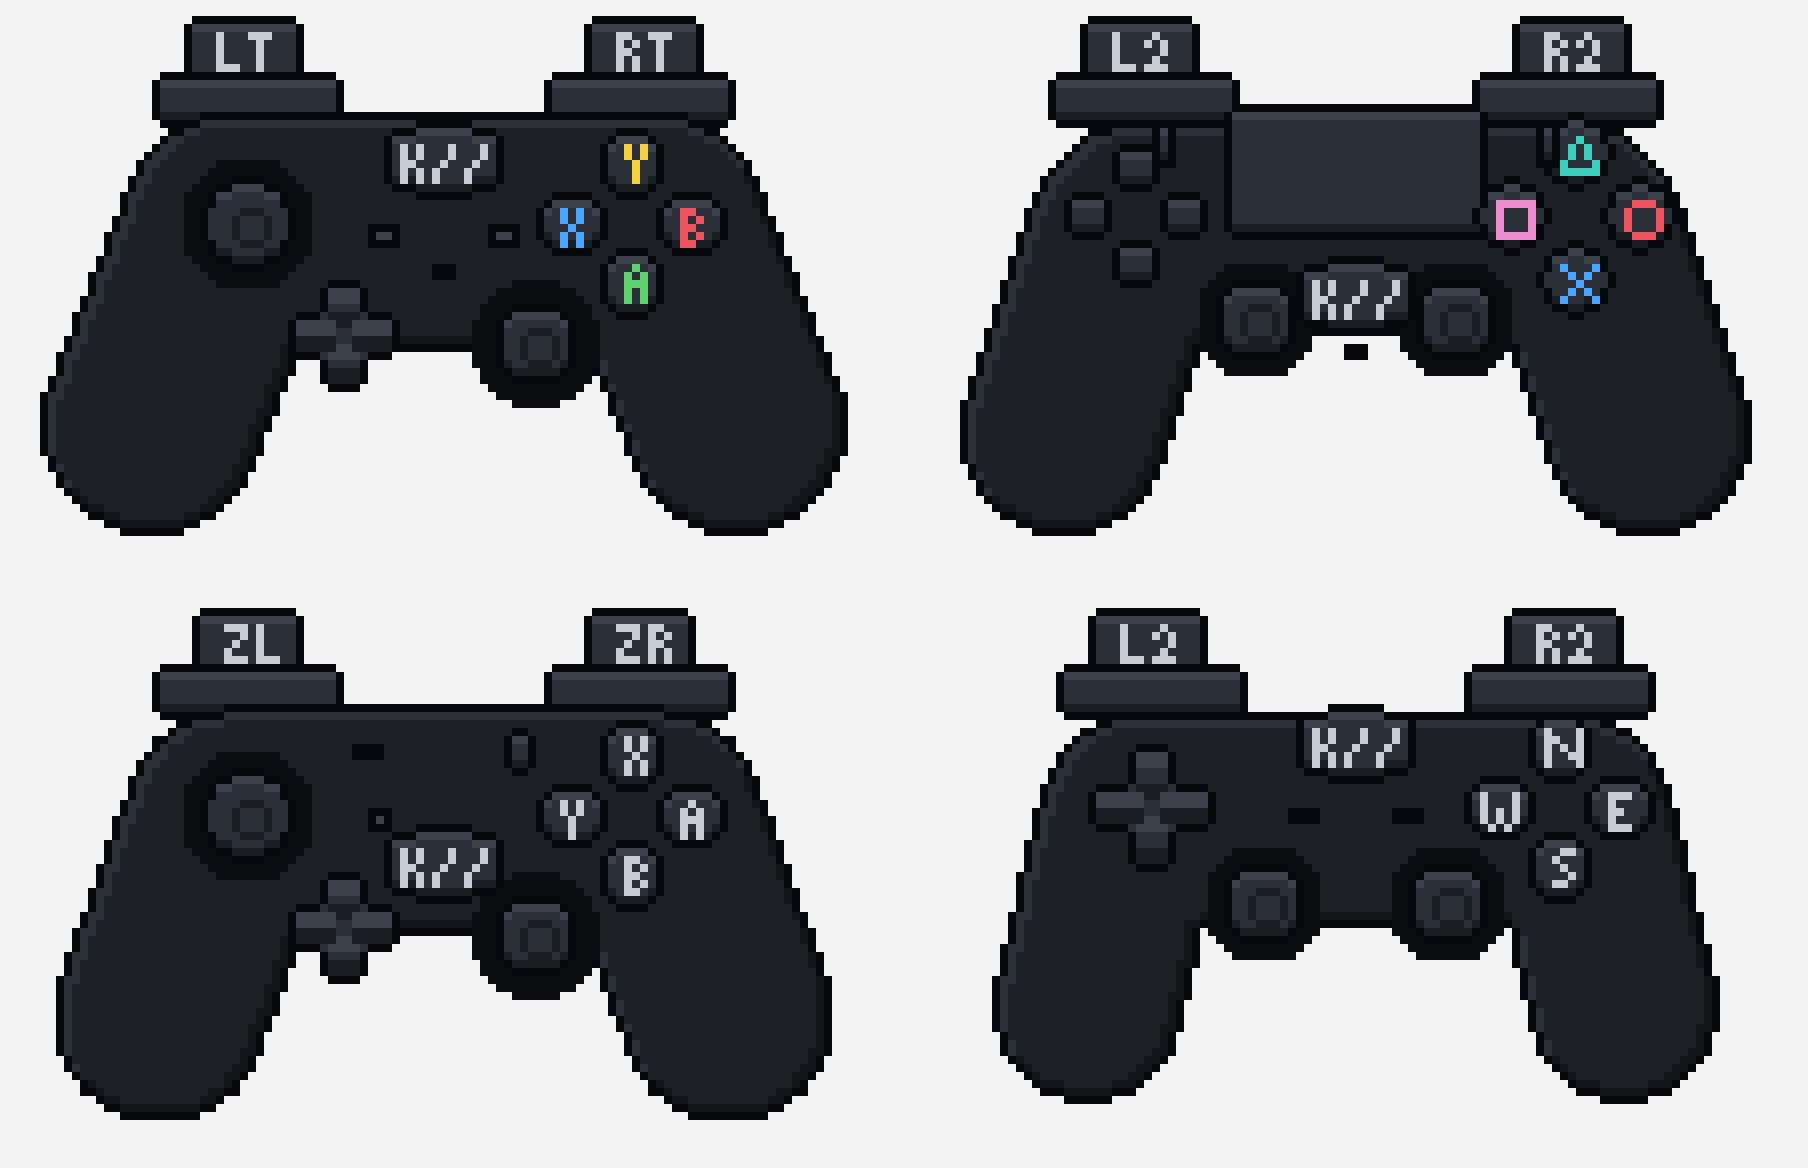
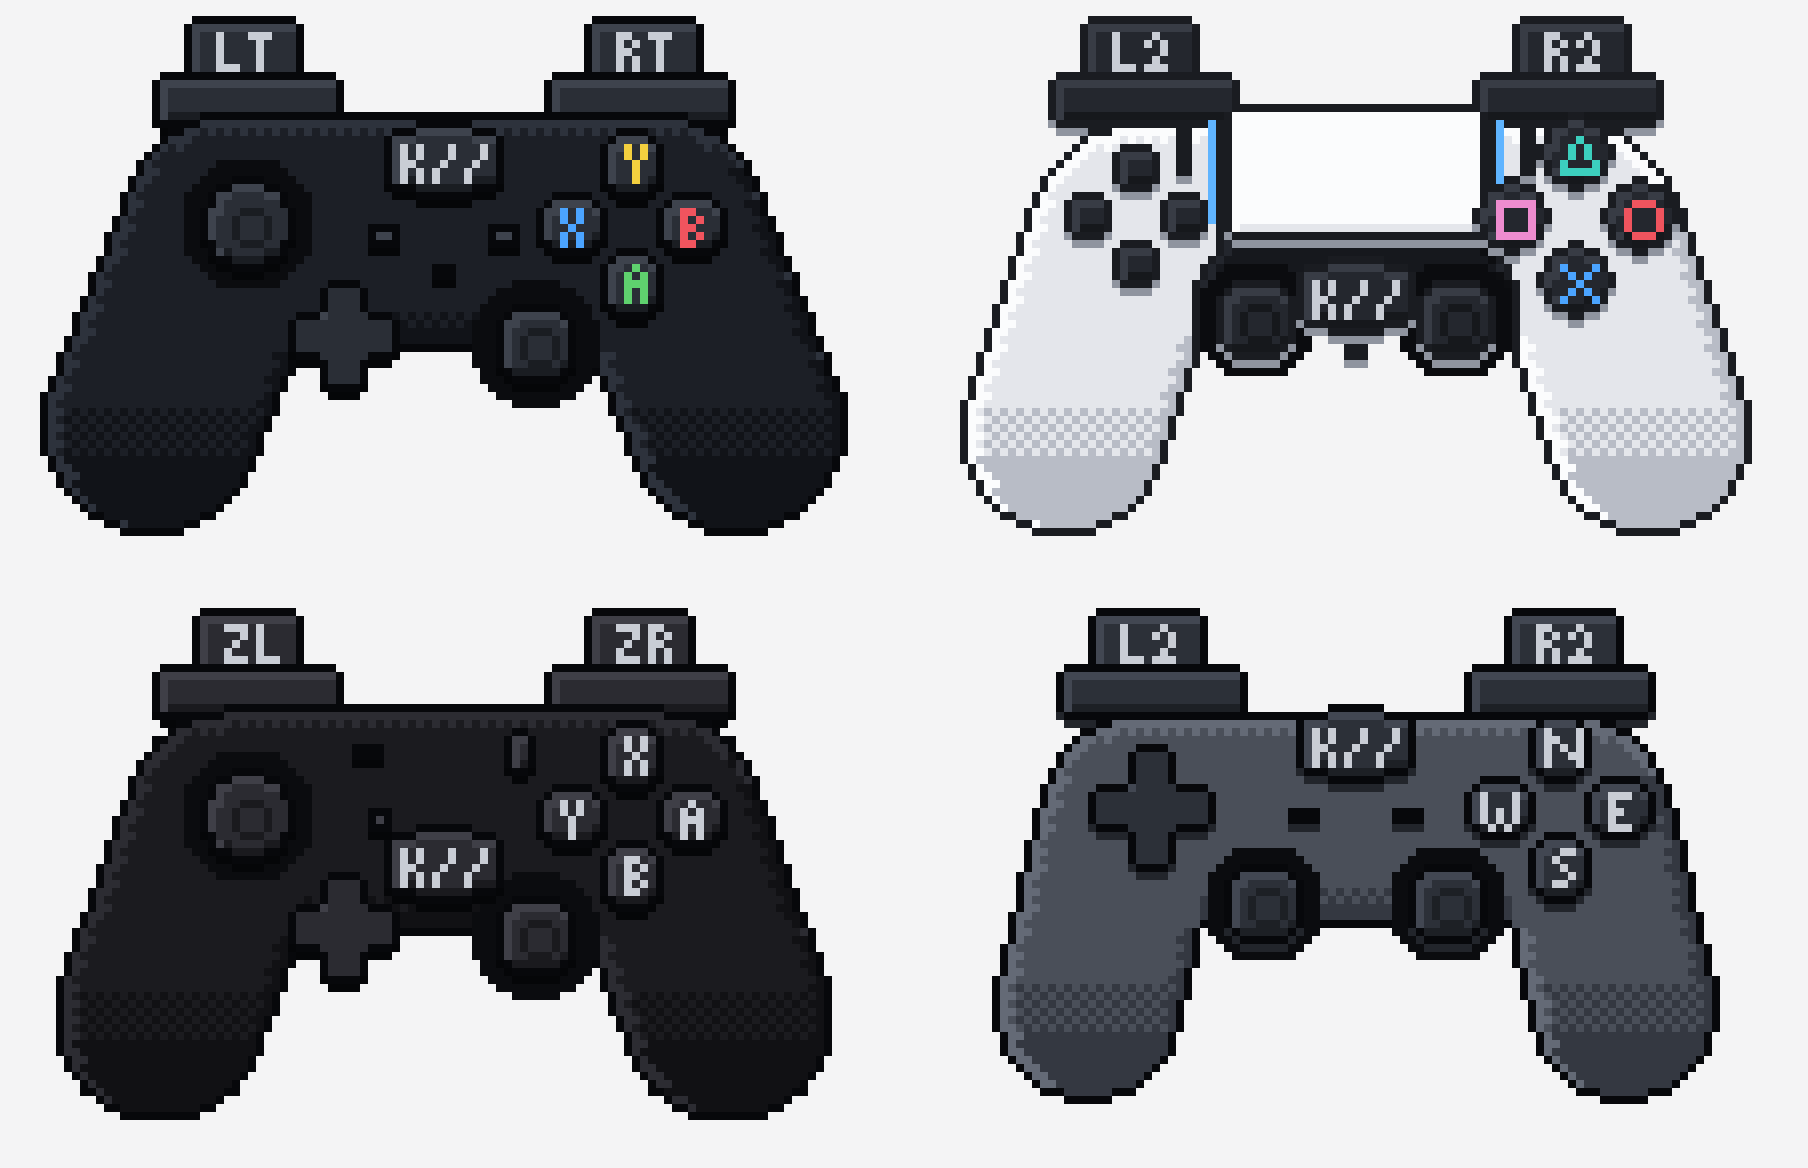
Art: own colours per family, dithered shading, key shadows

diff --git a/README.md b/README.md
@@ -49,7 +49,7 @@ For an SDL remap to reach a game, SDL has to see the pad through the same driver
 
 ## The drawings
 
-`art/` holds each family as a pixel-art SVG, 112 × 72 art pixels. Every control is its own `<g id="…">` named by its SDL name (`a`, `leftshoulder`, `dpup`…), so a page can light up what is pressed. Kryoto Desktop draws them live from [`src/lib/pad-art.ts`](https://github.com/official-kryo-to/kryoto-desktop/blob/main/src/lib/pad-art.ts). The home button wears Kryoto's K// mark.
+`art/` holds each family as a pixel-art SVG, 112 × 72 art pixels, each in its own colours: a carbon Xbox pad, a white and black DualSense with its light bars, a black Switch Pro, a grey universal pad. Light comes from the top left, the grips fade into a dithered shade, and every key casts a one-pixel shadow. Every control is its own `<g id="…">` named by its SDL name (`a`, `leftshoulder`, `dpup`…), so a page can light up what is pressed. Kryoto Desktop draws them live from `src/lib/pad-art.ts` in kryoto-desktop. The home button wears Kryoto's K// mark.
 
 ## Refreshing the database
 
